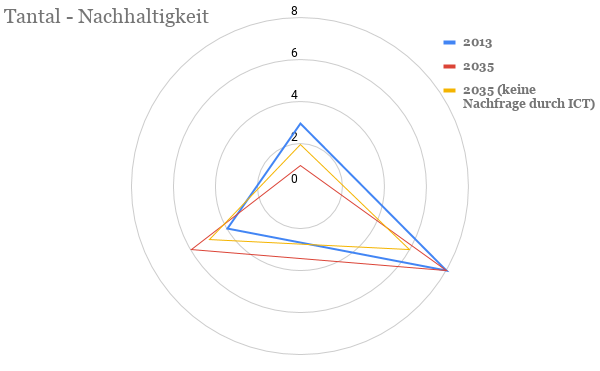
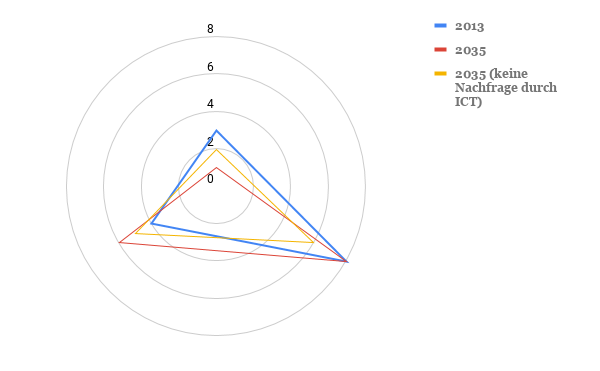
Resize results

diff --git a/results.tex b/results.tex
@@ -1,8 +1,8 @@
 \section{Resultate \& Ausblick}\label{sec:conflict}
 
-Nachfolgend vergleicht man die drei Dimensionen für die drei verschiedenen Szenarien
+Nachfolgend vergleicht man die drei Dimensionen für die drei verschiedenen Szenarien.
 
 \begin{center}
-\includegraphics[width=17cm]{images/tantal-results}
+\includegraphics[width=14cm]{images/tantal-results}
 \captionof{figure}{Vergleich der Nachhaltigkeit der drei verschiedenen Szenarien.}
 \end{center}
